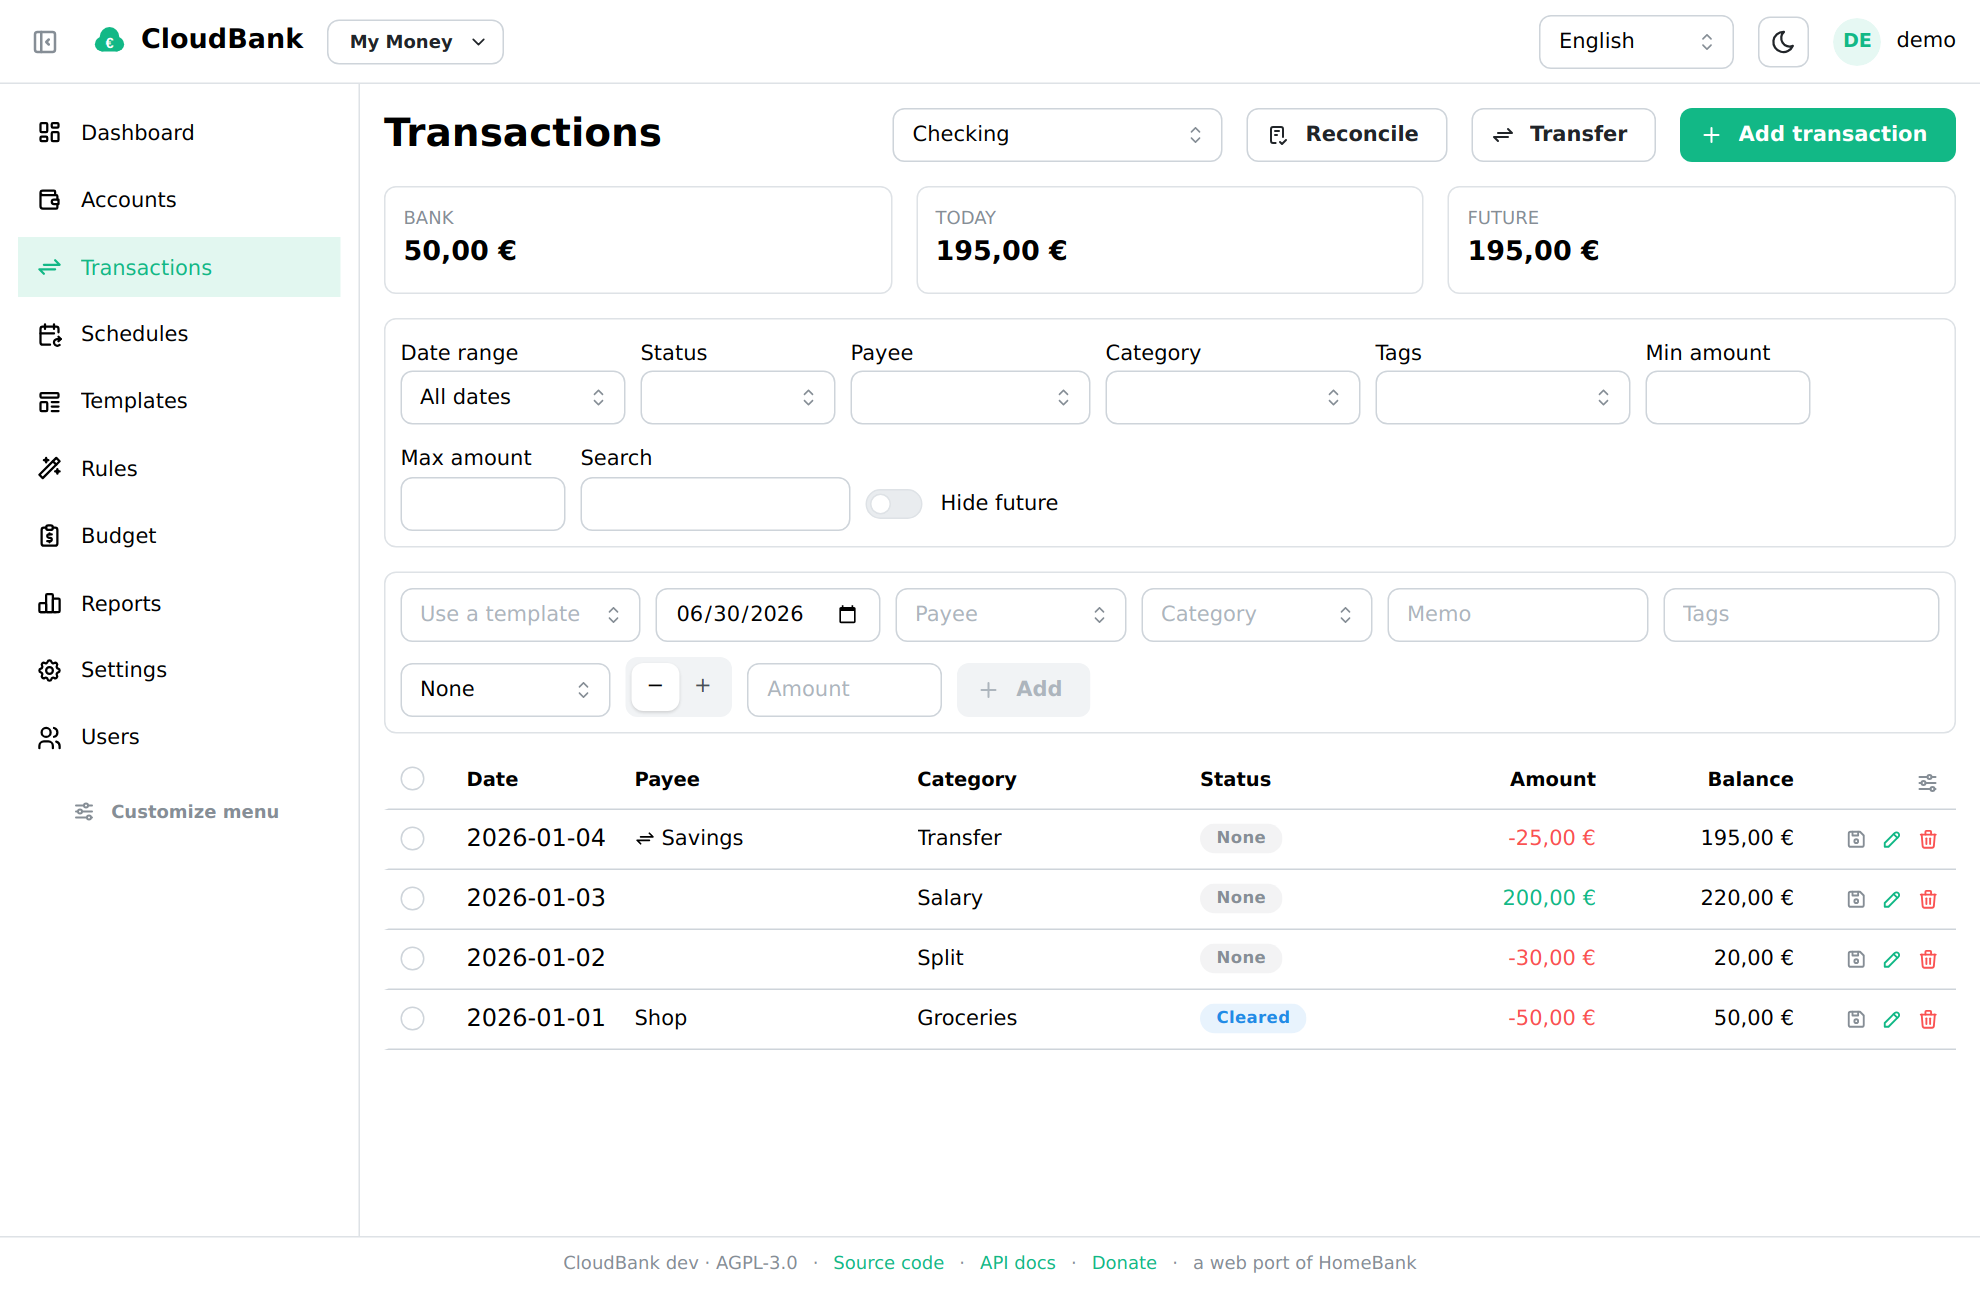
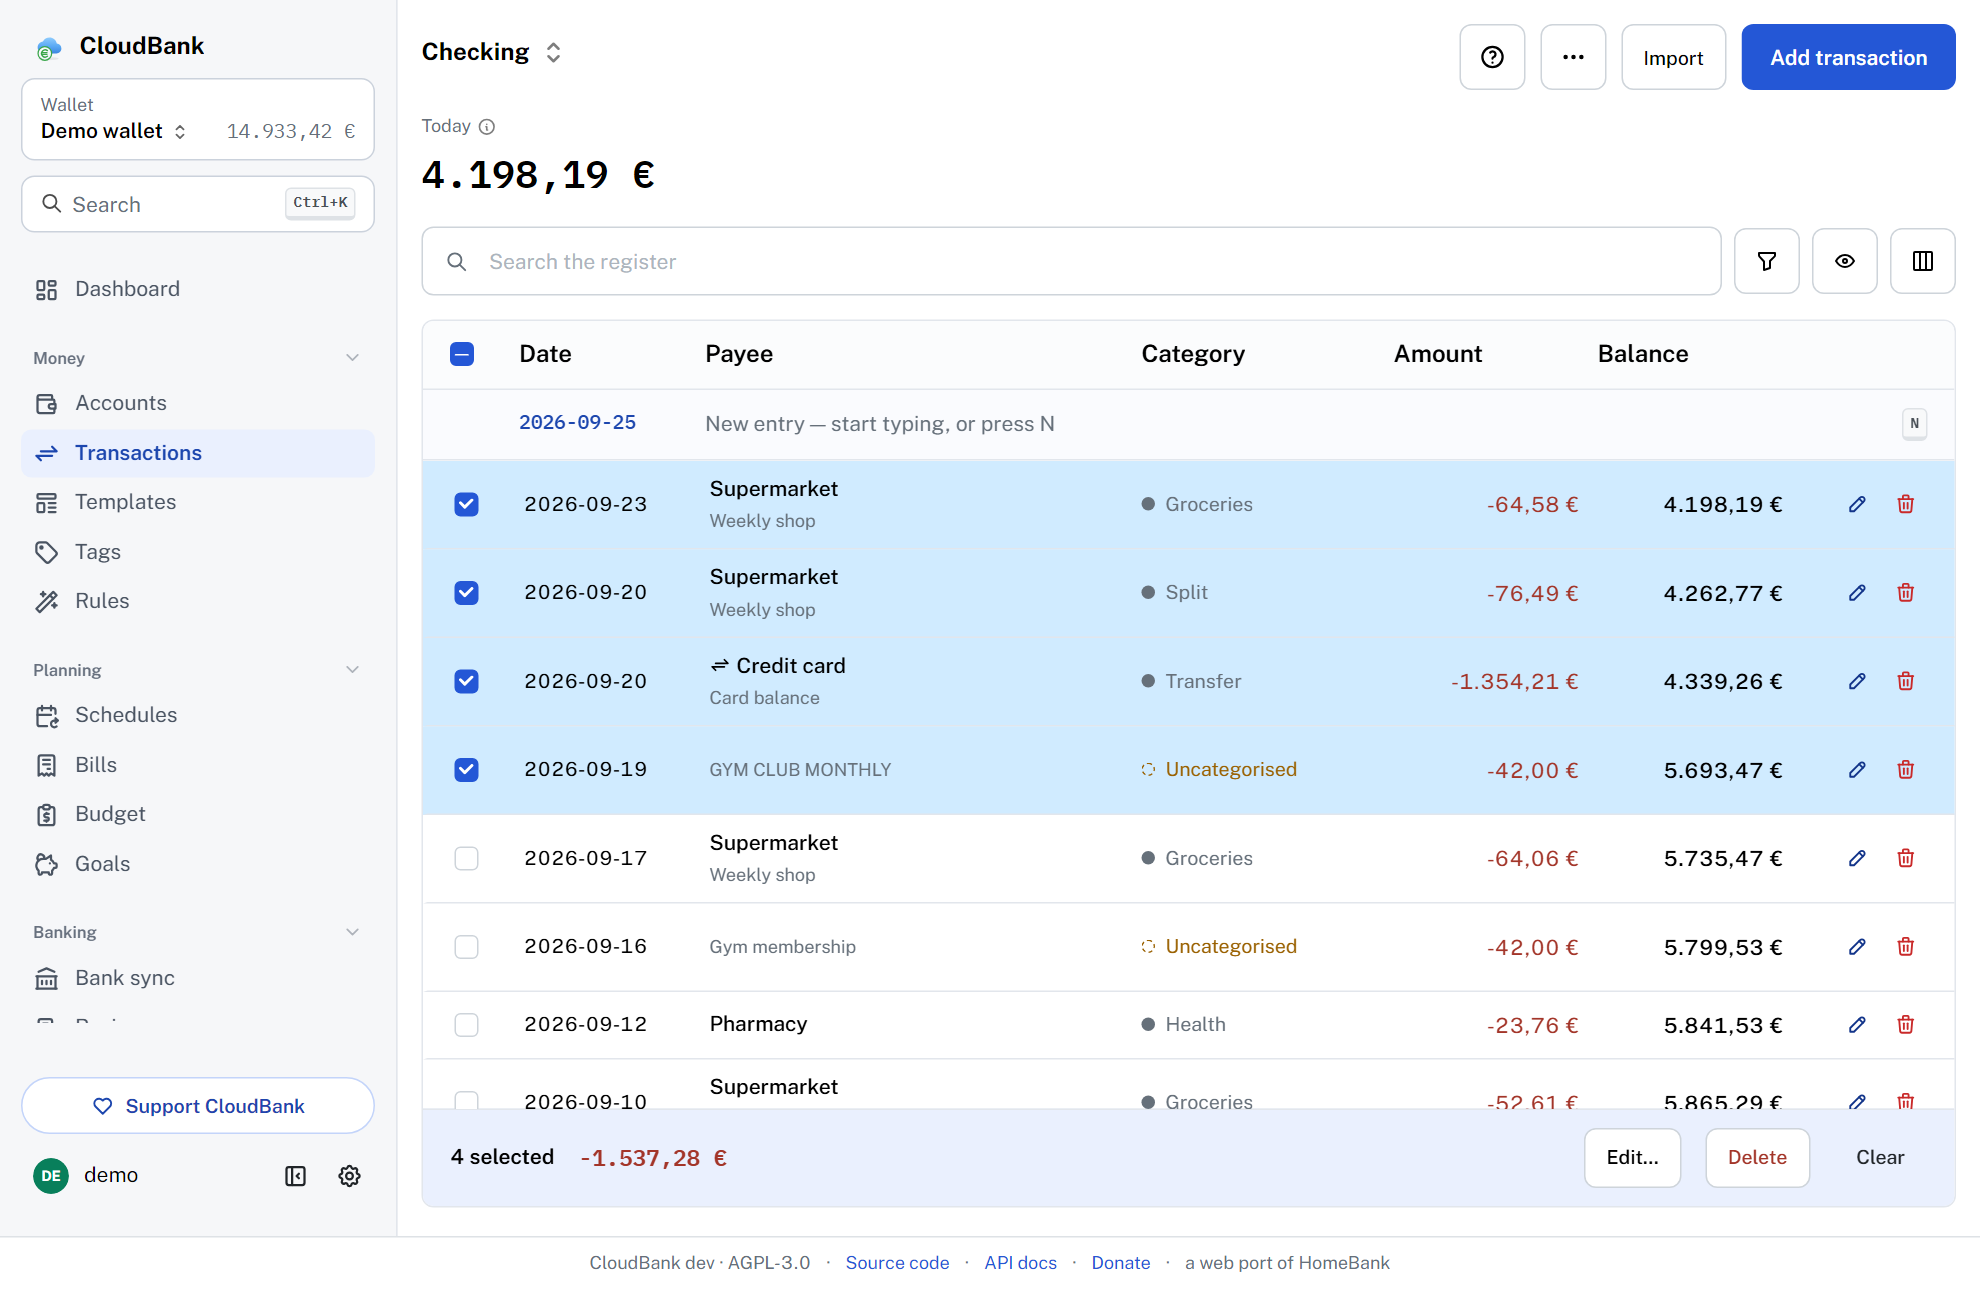
Replace the CloudBank screenshots and add bills, review, settings and export

diff --git a/cloudbank.html b/cloudbank.html
@@ -124,7 +124,7 @@
           <figure>
             <img
               src="assets/cloudbank-dashboard.png"
-              alt="CloudBank dashboard with account balances, spending and upcoming transactions"
+              alt="CloudBank dashboard with today's balance, income and spending, a panel of things that need attention and an income versus expense chart"
               loading="lazy"
             />
             <figcaption>The dashboard — a fully customizable, free-form grid of widgets.</figcaption>
@@ -230,19 +230,57 @@
             <figure>
               <img
                 src="assets/cloudbank-register.png"
-                alt="CloudBank transaction register with running balance, filters and a selection total"
+                alt="CloudBank register with four transactions selected, their total, and edit and delete actions for the selection"
                 loading="lazy"
               />
-              <figcaption>The register — running balance, filters and a live selection total.</figcaption>
+              <figcaption>
+                The register — running balance, filters, and one edit for a whole selection.
+              </figcaption>
             </figure>
             <figure>
               <img
                 src="assets/cloudbank-reports.png"
-                alt="CloudBank reports with interactive charts"
+                alt="CloudBank reports showing spending by category as a doughnut chart, with filters above it"
                 loading="lazy"
               />
               <figcaption>
-                Reports — Statistics, Trend Time, Balance, Budget and Vehicle cost, with export.
+                Reports — statistics, trends, balance and vehicle cost, exported as CSV or PNG.
+              </figcaption>
+            </figure>
+            <figure>
+              <img
+                src="assets/cloudbank-bills.png"
+                alt="CloudBank bills page listing one overdue and three due bills with the total to pay"
+                loading="lazy"
+              />
+              <figcaption>Bills — what is overdue and what is next, marked paid in one click.</figcaption>
+            </figure>
+            <figure>
+              <img
+                src="assets/cloudbank-review.png"
+                alt="CloudBank bank sync review showing a possible duplicate pair of transactions side by side"
+                loading="lazy"
+              />
+              <figcaption>
+                Bank sync review — categorise what came in and settle possible duplicates.
+              </figcaption>
+            </figure>
+            <figure>
+              <img
+                src="assets/cloudbank-settings.png"
+                alt="CloudBank appearance settings with theme, accent colour, sidebar balances and navigation"
+                loading="lazy"
+              />
+              <figcaption>Appearance — theme, accent colour, and what the sidebar shows.</figcaption>
+            </figure>
+            <figure>
+              <img
+                src="assets/cloudbank-export.png"
+                alt="CloudBank import and export settings with HomeBank file import, backup and restore"
+                loading="lazy"
+              />
+              <figcaption>
+                Import and export — HomeBank files, bank statements, CSV and full backups.
               </figcaption>
             </figure>
           </div>

diff --git a/index.html b/index.html
@@ -356,7 +356,7 @@
             <figure>
               <img
                 src="assets/cloudbank-dashboard.png"
-                alt="CloudBank dashboard with account balances, spending and upcoming transactions"
+                alt="CloudBank dashboard with today's balance, income and spending, a panel of things that need attention and an income versus expense chart"
                 loading="lazy"
               />
               <figcaption>The dashboard is a free-form grid — place and resize any widget.</figcaption>
@@ -364,18 +364,18 @@
             <figure>
               <img
                 src="assets/cloudbank-register.png"
-                alt="CloudBank transaction register with running balance, filters and a selection total"
+                alt="CloudBank register with four transactions selected, their total, and edit and delete actions for the selection"
                 loading="lazy"
               />
-              <figcaption>The register: running balance, filters and a live selection total.</figcaption>
+              <figcaption>The register: running balance, filters, and one edit for a whole selection.</figcaption>
             </figure>
             <figure>
               <img
                 src="assets/cloudbank-reports.png"
-                alt="CloudBank reports with interactive charts"
+                alt="CloudBank reports showing spending by category as a doughnut chart, with filters above it"
                 loading="lazy"
               />
-              <figcaption>Reports — statistics, trends, balance, budget and vehicle cost.</figcaption>
+              <figcaption>Reports — statistics, trends, balance and vehicle cost.</figcaption>
             </figure>
             <figure>
               <img
